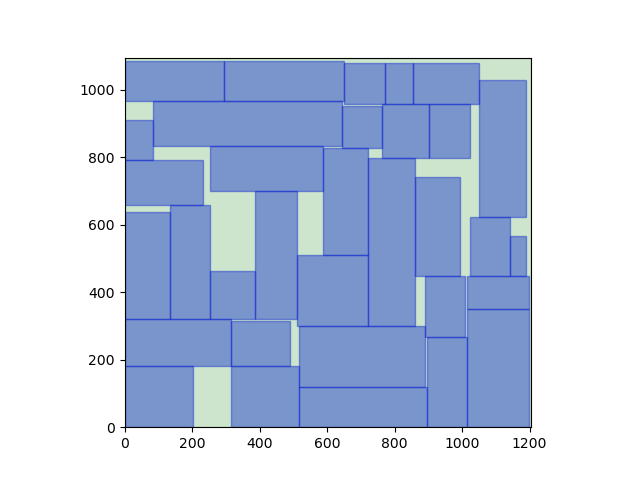
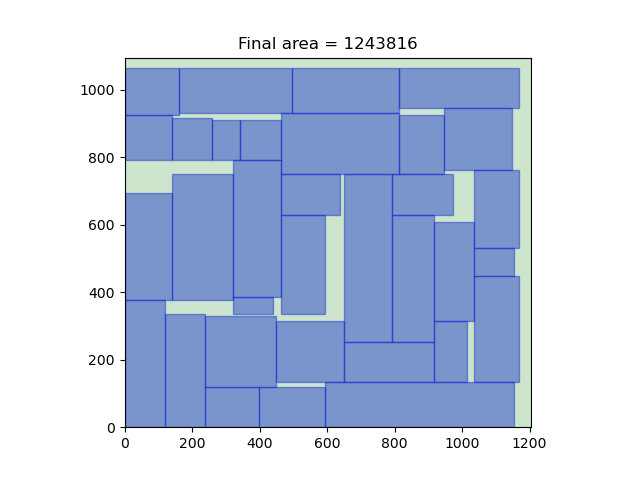
add dynamic text bar

diff --git a/demo/Floorplan/custom/Floorplan.py b/demo/Floorplan/custom/Floorplan.py
@@ -45,6 +45,7 @@ class CustomClass():
         self.history_height = []
         self.history_pos_x = []
         self.history_pos_y = []
+        self.history_cost = []
 
         self.pos_loci = []
         self.neg_loci = []
@@ -103,10 +104,10 @@ class CustomClass():
                 self.pos_x.append(int(words[2]))
                 self.pos_y.append(int(words[3]))
 
-            self.history_width = [self.width]
-            self.history_height = [self.height]
-            self.history_pos_x = [self.pos_x]
-            self.history_pos_y = [self.pos_y]
+            self.history_width = [copy.deepcopy(self.width)]
+            self.history_height = [copy.deepcopy(self.height)]
+            self.history_pos_x = [copy.deepcopy(self.pos_x)]
+            self.history_pos_y = [copy.deepcopy(self.pos_y)]
 
         with open(nets_file,'r') as fin:
             line = fin.readline()
@@ -134,6 +135,8 @@ class CustomClass():
         for i in range(self.block_num):
             self.match_x[self.pos_loci[i]] = i
             self.match_y[self.neg_loci[i]] = i
+        w,h = self.getArea()
+        self.history_cost = [int(w*h)]
 
     def updateNet(self):
         self.bound[0].fill(int(1e9))
@@ -179,6 +182,7 @@ class CustomClass():
         ax.add_patch(boundary)
         plt.xlim([0,x_lim])
         plt.ylim([0,y_lim])
+        plt.title("Final area = {}".format(self.history_cost[-1]))
         plt.savefig(filename)
         #plt.show()
    
@@ -192,6 +196,7 @@ class CustomClass():
             return patch,
         def animate(i):
             ax.clear()
+            ax.set_title("Area = {}".format(self.history_cost[i]))
             ax.set_xlim(0,self.max_w)
             ax.set_ylim(0,self.max_h)
             ax.set_aspect('equal',adjustable='box')
@@ -219,6 +224,7 @@ class CustomClass():
         self.history_height.append(copy.deepcopy(self.best_height))
         self.history_pos_x.append(copy.deepcopy(self.best_pos_x))
         self.history_pos_y.append(copy.deepcopy(self.best_pos_y))
+        self.history_cost.append(int(self.best_w*self.best_h))
 
     def operation(self,op):
         x1 = random.randint(0,self.block_num-1)
